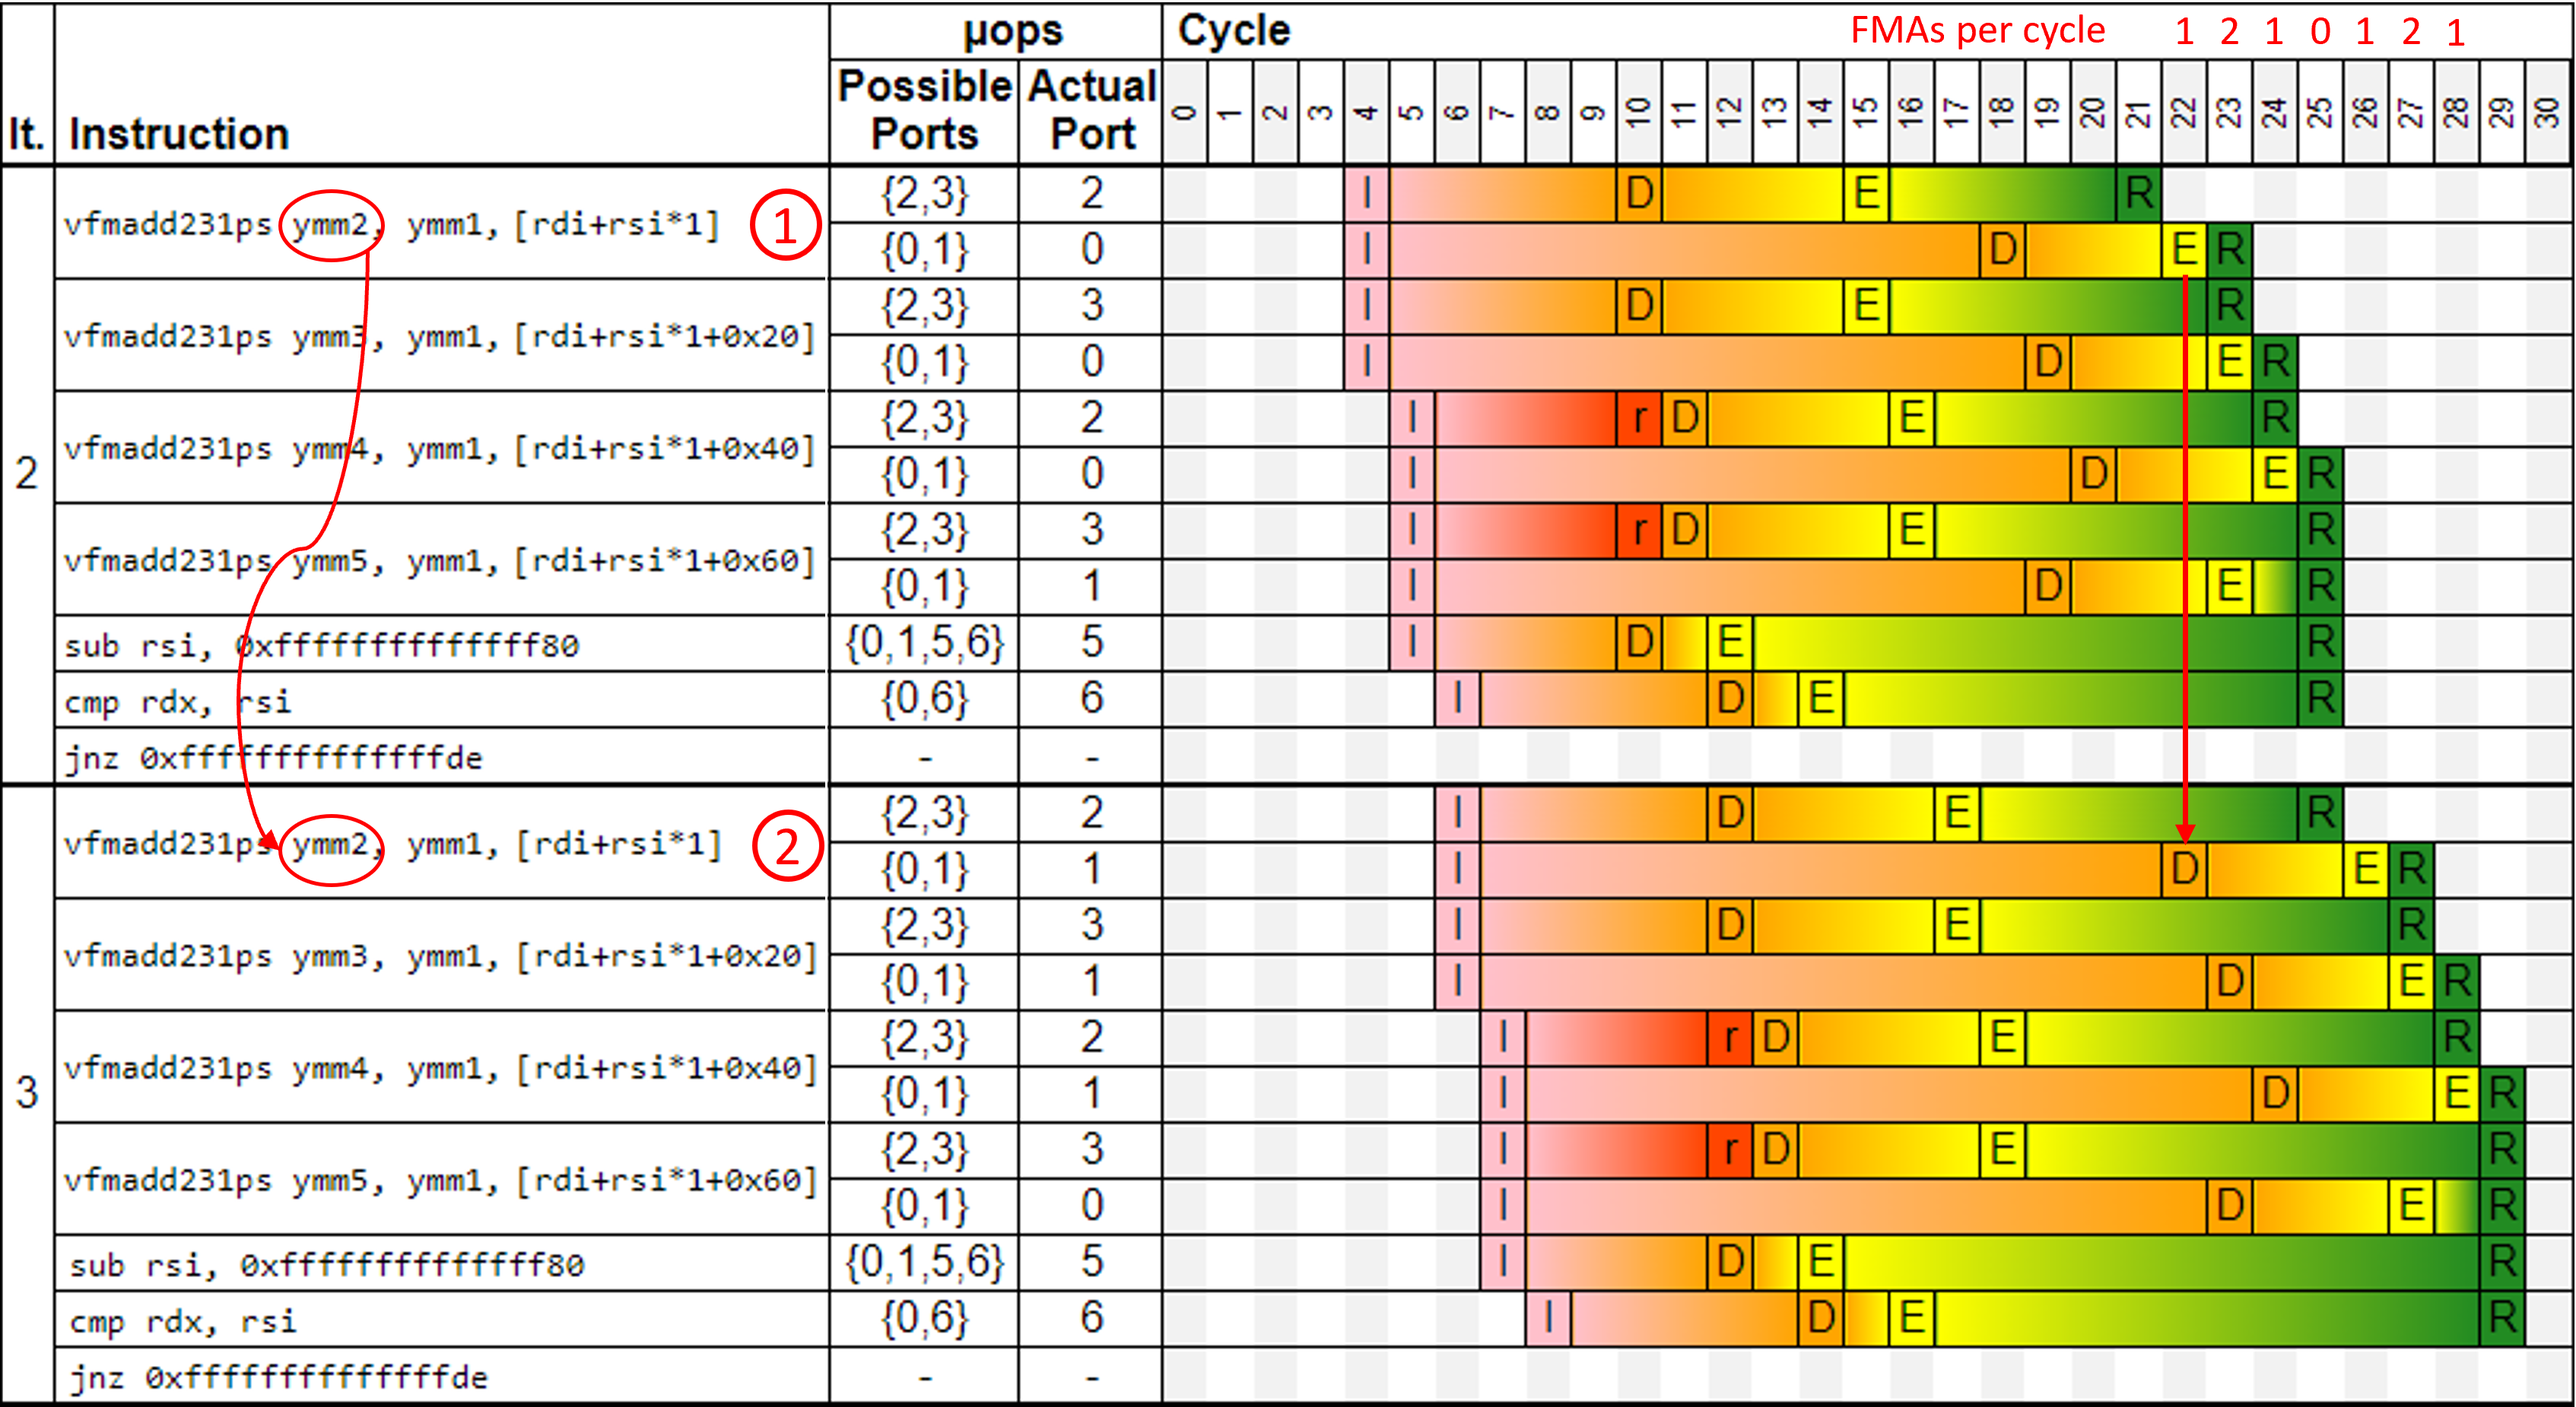
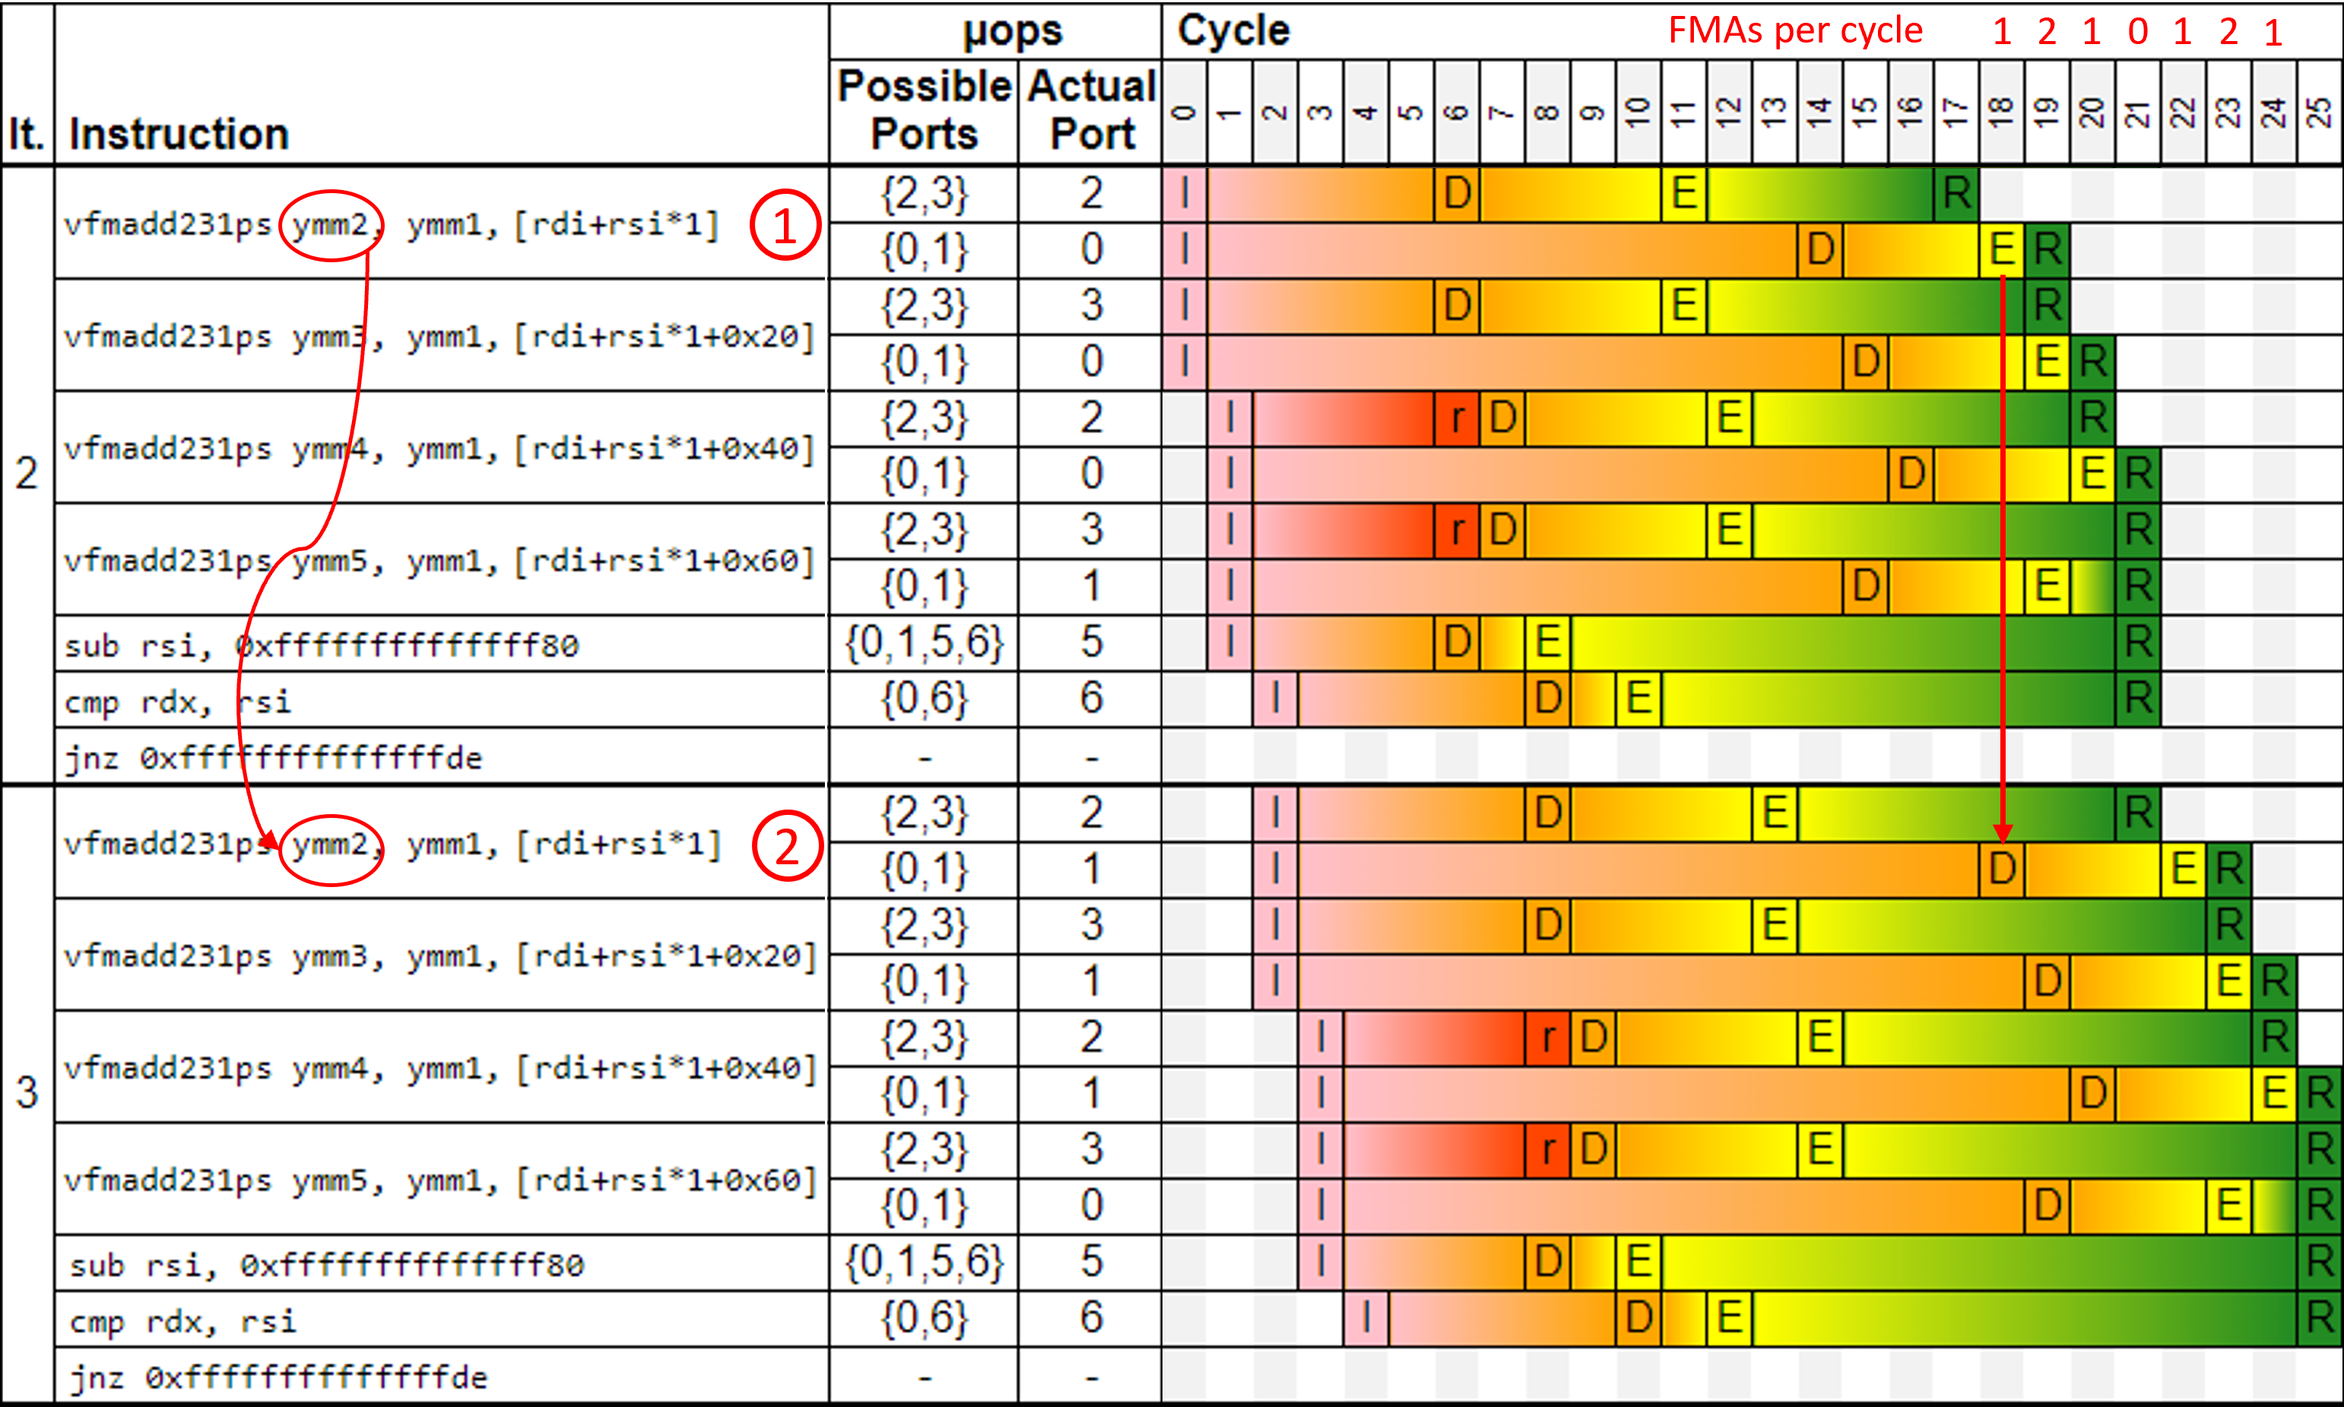
[Fixing TODOs] part7

diff --git a/chapters/5-Performance-Analysis-Approaches/5-7 Static performance analysis.md b/chapters/5-Performance-Analysis-Approaches/5-7 Static performance analysis.md
@@ -41,17 +41,15 @@ This is a reduction loop, i.e., we need to sum up all the products and in the en
 
 The code looks good, but is it really optimal? Let's find out. We took the assembly snippet from [@lst:FMAthroughput] to UICA and ran simulations. At the time of writing, Alderlake (Intel's 12th gen, based on GoldenCove) is not supported by UICA, so we ran it on the latest available, which is RocketLake (Intel's 11th gen, based on SunnyCove). Although the architectures differ, the issue exposed by this experiment is equally visible on both. The result of simulation is shown on Figure @fig:FMA_tput_UICA. This is a pipeline diagram similar to what we have shown in Chapter 3. We skipped the first two iterations, and show only iterations 2 and 3 (leftmost column "It."). This is when the execution reaches a steady state, and all further iterations look very similar.
 
-[TODO]: cut image further. Plus adjust the text accordingly.
-
 ![UICA pipeline diagram. `I` = issued, `r` = ready for dispatch, `D` = dispatched, `E` = executed, `R` = retired.](../../img/perf-analysis/fma_tput_uica.png){#fig:FMA_tput_UICA width=100%}
 
 UICA is a very simplified model of the actual CPU pipeline. For example, you may notice that the instruction fetch and decode stages are missing. Also, UICA doesn't account for cache misses and branch mispredictions, so it assumes that all memory accesses always hit in L1 cache and branches are always predicted correctly, which we know is not the case in modern processors. Again, this is irrelevant for our experiment as we could still use the simulation results to find a way to improve the code. 
 
-Can you see the performance issue? Let's examine the diagram. First of all, every `FMA` instruction is broken into two $\mu$ops (see \circled{1} in Figure @fig:FMA_tput_UICA): a load $\mu$op that goes to ports `{2,3}` and an FMA $\mu$op that can go to ports `{0,1}`. The load $\mu$op has a latency of 5 cycles: it starts at cycle 11 and finished at cycle 15. The FMA $\mu$op has a latency of 4 cycles: it starts at cycle 19 and finishes at cycle 22. All FMA $\mu$ops depend on load $\mu$ops, as we can clearly see in the diagram: FMA $\mu$ops always start after the corresponding load $\mu$op finishes. Now find two `r` cells at cycle 10, they are ready to be dispatched, but RocketLake has only two load ports, and both are already occupied in the same cycle. So, these two loads are issued in the next cycle.
+Can you see the performance issue? Let's examine the diagram. First of all, every `FMA` instruction is broken into two $\mu$ops (see \circled{1} in Figure @fig:FMA_tput_UICA): a load $\mu$op that goes to ports `{2,3}` and an FMA $\mu$op that can go to ports `{0,1}`. The load $\mu$op has a latency of 5 cycles: it starts at cycle 7 and finished at cycle 11. The FMA $\mu$op has a latency of 4 cycles: it starts at cycle 15 and finishes at cycle 18. All FMA $\mu$ops depend on load $\mu$ops, as we can clearly see in the diagram: FMA $\mu$ops always start after the corresponding load $\mu$op finishes. Now find two `r` cells at cycle 6, they are ready to be dispatched, but RocketLake has only two load ports, and both are already occupied in the same cycle. So, these two loads are issued in the next cycle.
 
-The loop has four cross-iteration dependencies over `ymm2-ymm5`. The FMA $\mu$op from instruction \circled{2} that writes into `ymm2` cannot start execution before instruction \circled{1} from the previous iteration finishes. Notice that the FMA $\mu$op from instruction \circled{2} was dispatched in the same cycle 22 as instruction \circled{1} finished its execution. You can observe this pattern for other FMA instructions as well.
+The loop has four cross-iteration dependencies over `ymm2-ymm5`. The FMA $\mu$op from instruction \circled{2} that writes into `ymm2` cannot start execution before instruction \circled{1} from the previous iteration finishes. Notice that the FMA $\mu$op from instruction \circled{2} was dispatched in the same cycle 18 as instruction \circled{1} finished its execution. There is a data dependency between instruction \circled{1} and instruction \circled{2}. You can observe this pattern for other FMA instructions as well.
 
-So, "what is the problem?", you ask. Look at the top right corner of the image. For each cycle, we added the number of executed FMA $\mu$ops, this is not printed by UICA. It goes like `1,2,1,0,1,2,1,...`, or an average of one FMA $\mu$op per cycle. Most of the recent Intel processors have two FMA execution units, thus can issue two FMA $\mu$ops per cycle. The diagram clearly shows the gap as every forth cycle there are no FMAs executed. As we figured out before, no FMA $\mu$ops can be dispatched because their inputs (`ymm2-ymm5`) are not ready.
+So, "what is the problem?", you ask. Look at the top right corner of the image. For each cycle, we added the number of executed FMA $\mu$ops, this is not printed by UICA. It goes like `1,2,1,0,1,2,1,...`, or an average of one FMA $\mu$op per cycle. Most of the recent Intel processors have two FMA execution units, thus can issue two FMA $\mu$ops per cycle. Thus, we utilize only half of the available FMA execution throughput. The diagram clearly shows the gap as every forth cycle there are no FMAs executed. As we figured out before, no FMA $\mu$ops can be dispatched because their inputs (`ymm2-ymm5`) are not ready.
 
 To increase the utilization of FMA execution units from 50% to 100%, we need to unroll the loop by a factor of two. This will double the number of accumulators from 4 to 8. Also, instead of 4 independent data flow chains, we will have 8. We will not show simulations of the unrolled version here; you can experiment on your own. Instead, let us confirm the hypothesis by running both version on real HW. By the way, it is always a good idea to verify, because static performance analyzers like UICA are not accurate models. Below, we show the output of two [nanobench](https://github.com/andreas-abel/nanoBench) tests that we ran on a recent Alderlake processor. The tool takes provided assembly instructions (`-asm` option) and creates a benchmark kernel. Readers can look up the meaning of other parameters in the nanobench documentation. The original code on the left executes 4 instructions in 4 cycles, while the improved version can execute 8 instructions in 4 cycles. Now we can be sure we have maximized the FMA execution throughput, since the code on the right keeps the FMA units busy all the time.
 
